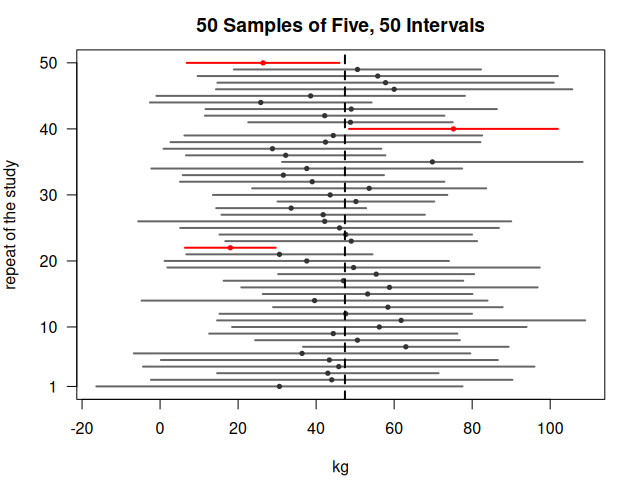
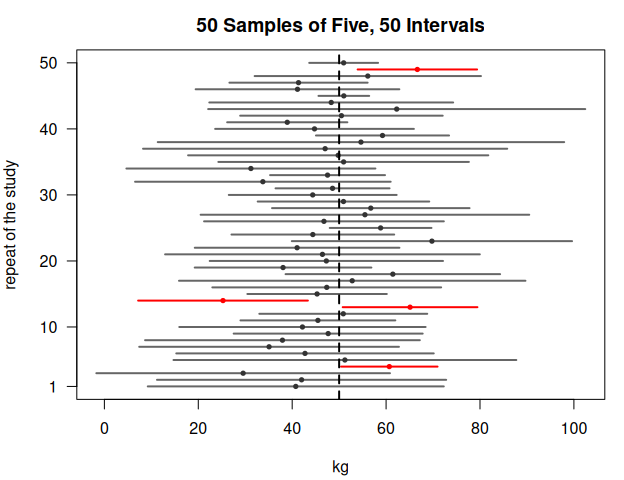
Rebuild question 3 around the maximum, and question 5 around a normal colony
Question 3 drops the five-statistic figure and the parts that read it. Two new
figures show three colonies, the sampling distribution of the heaviest penguin
in a sample of five, and the cumulative distributions of that heaviest penguin.
The first set of colonies shares a shape and differs in its heaviest penguin,
the second shares its heaviest penguin and differs in shape. The questions ask
which colony an observed heaviest penguin rules out, what the resulting
probability is a statement about, and why the same observation says different
things about colonies that agree on their heaviest penguin.

Question 5 now draws the researcher's five penguins from a normal colony, so
the interval in (c) is exact. A new part (g) drops that assumption: it plots
how often the interval captures the mean for the four colonies of question 2,
at sample sizes from 2 to 30, and asks what the label "95%" means once the
colony is not normal. Part (b) shows the t statistic before turning it around,
and (c) asks for the margin and the two limits separately.

The header knits to markdown and PDF in one go, with xelatex and a font that
has the Greek letters. The knitted PDF is not tracked.

Claude-Session: https://claude.ai/code/session_015KaJ8PHkgQYpZ1BkLadhnX

diff --git a/04_SamplingDistributions/Exercises.md b/04_SamplingDistributions/Exercises.md
@@ -96,46 +96,67 @@ and say what you would tell the colleague.
 ## Question 3: The mean is not the only statistic
 
 A statistic is any number you calculate from a sample, so the mean is
-not special. The figure takes samples of five from the 31 penguins in
-`PenguinMean.R` and calculates five different statistics on every
-sample. Each panel is the sampling distribution of one of them. The
-dashed line marks the value of that same statistic calculated on all 31
-penguins, i.e., the truth we are usually trying to infer. See
-`PenguinStatistics.R`.
+not special. The median, the sd, the minimum and the maximum all have
+sampling distributions too; `PenguinStatistics.R` draws them for the
+penguins in `PenguinMean.R`. This question looks at one of them more
+closely: the maximum. Each of the two figures below shows three colonies
+of 2000 penguins (top row), the sampling distribution of the heaviest
+penguin in a sample of five (middle row), and the cumulative
+distributions of that heaviest penguin for all three colonies together
+(bottom panel). A cumulative distribution gives, for every weight on the
+horizontal axis, the proportion of samples whose heaviest penguin is at
+or below that weight. The dashed black lines mark the heaviest penguin
+in each colony. The red line marks a researcher’s observation: five
+penguins, the heaviest of which weighs 70 kg.
 
-![](Exercises_files/figure-gfm/q3-statistics-1.png)<!-- -->
+In the first figure, all three colonies have the same shape: weights are
+spread evenly from 20 kg up to the heaviest penguin, which weighs 60, 80
+or 100 kg.
 
-\[comment: Let’s retthing this whole quesiton\]
+![](Exercises_files/figure-gfm/q3-max-maxima-1.png)<!-- -->
 
-**(a)** Go panel by panel and say how each sampling distribution sits
-relative to its dashed line: centred on it, or consistently to one side
-of it, and by how much compared with the width of the panel.
+**(a)** Compare the top and middle rows. Where does the heaviest of five
+sit relative to the heaviest penguin in the colony? Can a sample of five
+ever produce a value on the other side of the dashed line? Suppose you
+had to report the heaviest penguin in a colony and could only catch
+five. What would you tell a reader about your number? Would catching 20
+remove the problem, or only shrink it?
 
-**(b)** Two of the five panels sit on one side of their dashed line in a
-way that could have been predicted before any simulation was run. Which
-two, and why does it have to come out that way? For each of the two,
-could a sample of five ever produce a value on the other side of the
-line?
+**(b)** Use the bottom panel to answer these for the researcher whose
+heaviest penguin weighs 70 kg:
 
-**(c)** The mean and the median are both answers to the question “where
-is the middle of this colony?” Compare their two panels. If both are
-roughly in the right place, what exactly would you be giving up by
-reporting the median instead of the mean?
+1.  Which colony can you rule out completely, and why?
+2.  For the colony whose heaviest penguin weighs 80 kg, read off the
+    proportion of samples whose heaviest penguin is 70 kg or lighter. Do
+    the same for the 100 kg colony. (The values are 0.40 and 0.10.)
+3.  Write one sentence that says exactly what 0.10 is the probability
+    of. Make clear what is assumed and what is observed. Compare your
+    sentence with the one you write in Question 6(a).
 
-**(d)** True or false: the median has a sampling distribution. Is there
-any statistic you could calculate from a sample that does not have one?
-Justify your answer using the definition of a statistic, not by listing
-examples.
+In the second figure, all three colonies range from exactly 20 kg to
+exactly 100 kg, so they share the same heaviest penguin. They differ
+only in how the weights in between are spread.
 
-**(e)** Only one of these five panels has the tidy formula from Question
-1 attached to it. What would you have to do to get the other four?
-(`PenguinStatistics.R` does exactly that. Say in one sentence what it is
-doing.)
+![](Exercises_files/figure-gfm/q3-max-shapes-1.png)<!-- -->
 
-**(f)** Suppose you had to report the heaviest penguin in a colony, and
-you could only catch five. Knowing what the maximum panel looks like,
-what would you tell a reader about your reported number? Would catching
-20 remove the problem, or only shrink it?
+**(c)** For each of these three colonies, read off the proportion of
+samples whose heaviest penguin is 70 kg or lighter. (The values are
+0.80, 0.10 and 0.00.) All three colonies have a heaviest penguin of 100
+kg. Why are the answers so different? A colleague says: “Our heaviest
+penguin was only 70 kg, so the heaviest penguin in the colony is
+probably not 100 kg.” What would the colleague have to assume about the
+colony to back this up?
+
+**(d)** Only the mean has a tidy formula (Question 1) for its sampling
+distribution. None of the curves in this question came from a formula.
+How were they made? (`PenguinStatistics.R` does the same for the mean,
+median, sd, minimum and maximum. Say in one sentence what it is doing.)
+
+**(e)** (Optional) For the colonies in the first figure, weights are
+spread evenly between 20 kg and the heaviest penguin M, so the chance
+that one penguin weighs 70 kg or less is (70 − 20)/(M − 20). Use this to
+work out the chance that all five penguins in a sample weigh 70 kg or
+less, and check your answer against the values in (b).
 
 ## Question 4: When σ is unknown
 
@@ -203,10 +224,11 @@ this to what the sample sd is doing as `n` increases.
 We did not cover this in class, but the questions contain sufficient
 information to solve them.
 
-A researcher catches five penguins from the colony in `PenguinMean.R`.
-Their weights are 89, 78, 65, 44, and 34 kg, so the sample mean is 62
-kg, and the sample sd is about 22.9 kg. The researcher writes: “The mean
-weight of this colony is 62 kg.”
+A researcher catches five penguins from a large colony. Weights in this
+colony are normally distributed, but the researcher knows neither the
+colony’s mean nor its sd. The five weights are 89, 78, 65, 44, and 34
+kg, so the sample mean is 62 kg, and the sample sd is about 22.9 kg. The
+researcher writes: “The mean weight of this colony is 62 kg.”
 
 **(a)** What is wrong with that sentence? Think about what a second
 researcher would report after catching five different penguins. Of the
@@ -216,13 +238,22 @@ typically lands from the colony’s true mean? The researcher only has one
 sample. What can they calculate from it to estimate the width of that
 distribution?
 
-**(b)** Question 4(d) gave the t value that leaves 95% of the `df` = 4
-curve in the middle. So in 95% of samples of five, the sample mean lands
-within that many estimated standard errors of μ, where the standard
-error $s/\sqrt{n}$ is calculated from that same sample. Now turn this
-around. If $\bar{x}$ is within that distance of μ, then μ is within the
-same distance of $\bar{x}$. This lets us build an interval around the
-one number we actually have:
+**(b)** Recall the t statistic from Question 4:
+
+$$t = \frac{\bar{x} - \mu}{s/\sqrt{n}}$$
+
+Question 4(d) gave the value $t_{0.975,\,n-1}$ that leaves 95% of the
+`df` = 4 curve in the middle. So in 95% of samples of five, t lands
+between $-t_{0.975,\,n-1}$ and $t_{0.975,\,n-1}$. Multiply through by
+$s/\sqrt{n}$, and this says that the sample mean lands within
+$t_{0.975,\,n-1}$ estimated standard errors of μ:
+
+$$|\bar{x} - \mu| \le t_{0.975,\,n-1} \cdot \frac{s}{\sqrt{n}}$$
+
+The standard error $s/\sqrt{n}$ is calculated from that same sample. Now
+turn this around. If $\bar{x}$ is within that distance of μ, then μ is
+within the same distance of $\bar{x}$. This lets us build an interval
+around the one number we actually have:
 
 $$\bar{x} \pm t_{0.975,\,n-1} \cdot \frac{s}{\sqrt{n}}$$
 
@@ -231,18 +262,24 @@ $\bar{x}$”, which quantities change from sample to sample, and which
 stays fixed?
 
 **(c)** Work out this 95% confidence interval for the researcher’s five
-penguins. Then rewrite the researcher’s sentence so that it is
-defensible.
+penguins, in three steps:
+
+1.  The margin of error, $t_{0.975,\,n-1} \cdot s/\sqrt{n}$.
+2.  The lower limit of the interval.
+3.  The upper limit of the interval.
+
+Then rewrite the researcher’s sentence so that it is defensible.
 
 **(d)** The figure below repeats the researcher’s study 50 times. Each
 time it draws five penguins from the same colony and builds the interval
-from (c). The dashed line is the true mean of all 31 penguins, which a
-real researcher would never get to see. Intervals that miss it are drawn
-in red.
+from (c). For the simulation, the colony has a mean of 50 kg and an sd
+of 20 kg. The dashed line marks that true mean of 50 kg, which a real
+researcher would never get to see. Intervals that miss it are drawn in
+red.
 
 ![](Exercises_files/figure-gfm/q5-ci-1.png)<!-- -->
 
-3 of the 50 intervals miss the true mean. The true mean stays put in
+4 of the 50 intervals miss the true mean. The true mean stays put in
 every repeat. What changes from one repeat to the next? So what exactly
 is the “95%” a property of? Is it a property of any single interval in
 the figure?
@@ -261,26 +298,35 @@ Compare them with the p-values in Question 6(b).
 4.  If the researcher caught five new penguins, there is a 95% chance
     their mean would fall inside this interval.
 
-**(f)** The t interval is exact only when the population is normal. The
-histogram below shows the 31 penguins, which are clearly not normal.
-
-![](Exercises_files/figure-gfm/q5-population-1.png)<!-- -->
-
-With five penguins per sample, the central limit theorem cannot do much
-to rescue the interval either. How well the interval works then depends
-on the shape of the population. For samples of five, the interval
-captures the true mean about 95% of the time for Colony A in Question 2,
-but only about 93% of the time for the skewed Colony D, and less still
-for more strongly skewed populations. What would you want to know about
-a colony before trusting a 95% interval built from five penguins?
-Several intervals in the figure above also reach below 0 kg. What does
-that tell you about the assumption the interval rests on?
-
-**(g)** The researcher goes back and catches 20 penguins, and the sample
+**(f)** The researcher goes back and catches 20 penguins, and the sample
 sd comes out about the same. Roughly how much narrower will the interval
 be? Two things make it narrower. Name both, and use Question 1(b) to say
 which of them does most of the work. What does this mean for someone
 deciding how many penguins to catch?
+
+**(g)** The recipe in (b) gives an interval that contains μ in exactly
+95% of samples, but only if the colony is normal: Student’s theorem,
+which gives the t distribution, needs that assumption. What happens if
+the colony is not normal? The figure below takes the four colonies from
+Question 2, which all have a mean of 50 kg. For each colony and each
+sample size, it builds 10,000 intervals the way you did in (c), and
+records the percentage of intervals that contain 50 kg.
+
+![](Exercises_files/figure-gfm/q5-coverage-1.png)<!-- -->
+
+1.  For which colony is the label “95% interval” exactly right? For the
+    other three, what does the formula give you instead?
+2.  Which colony gives the worst intervals, and at which sample sizes?
+    Look back at its sampling distribution for samples of two in
+    Question 2, and suggest why.
+3.  Which colony stays below 95% the longest as `n` grows? What feature
+    of its shape might be responsible?
+4.  Why do all four colonies get close to 95% for larger samples? Which
+    result from class is doing the work there?
+5.  A researcher does not know the shape of their colony and catches
+    five penguins. Can they build an interval that is guaranteed to
+    contain μ in 95% of samples? What are they assuming if they use the
+    formula from (b) anyway?
 
 ## Question 6: Using a sampling distribution for inference
 
